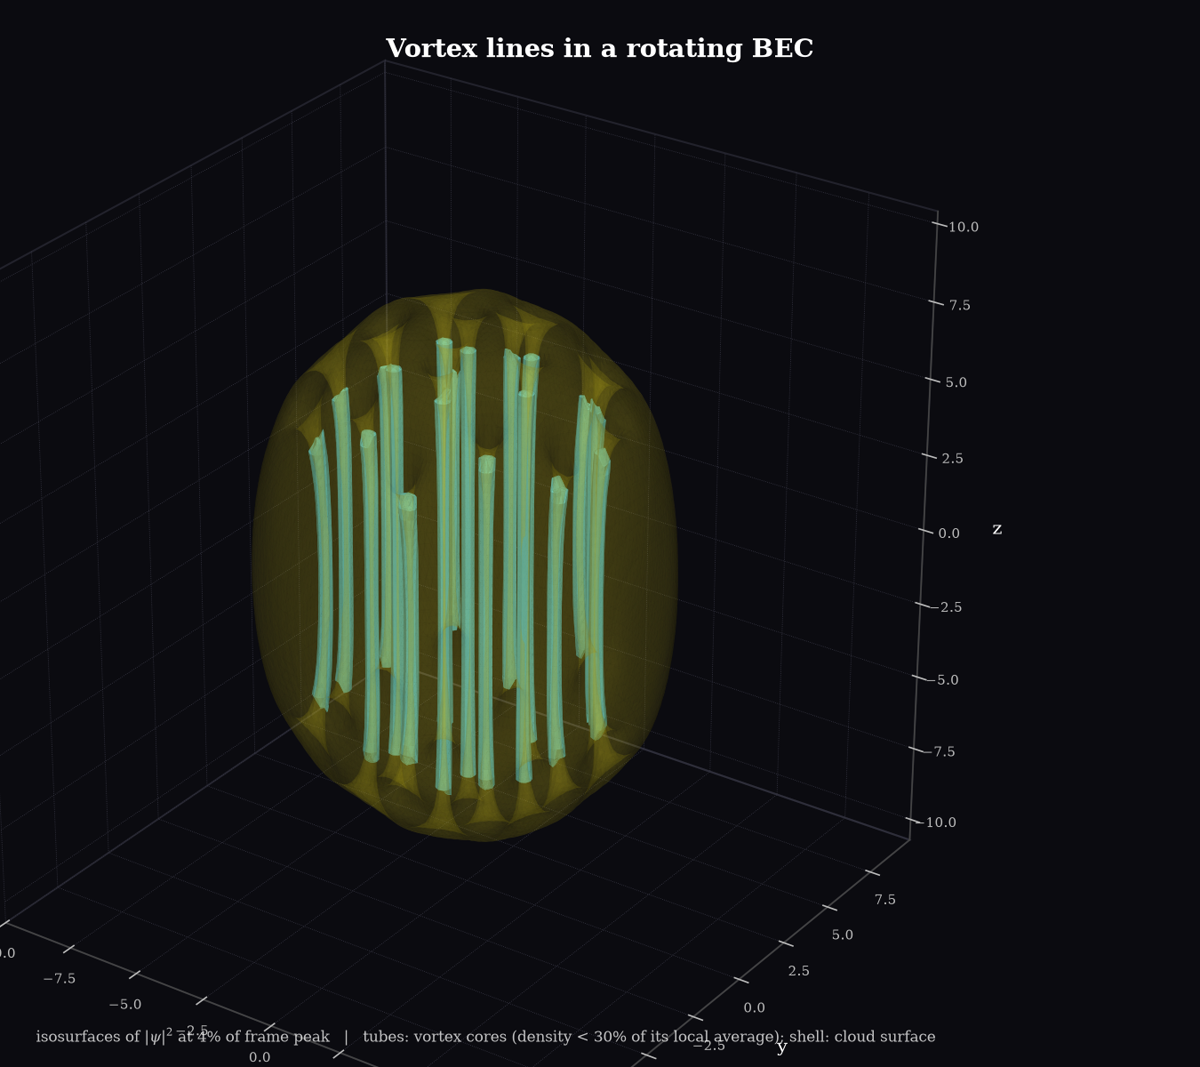
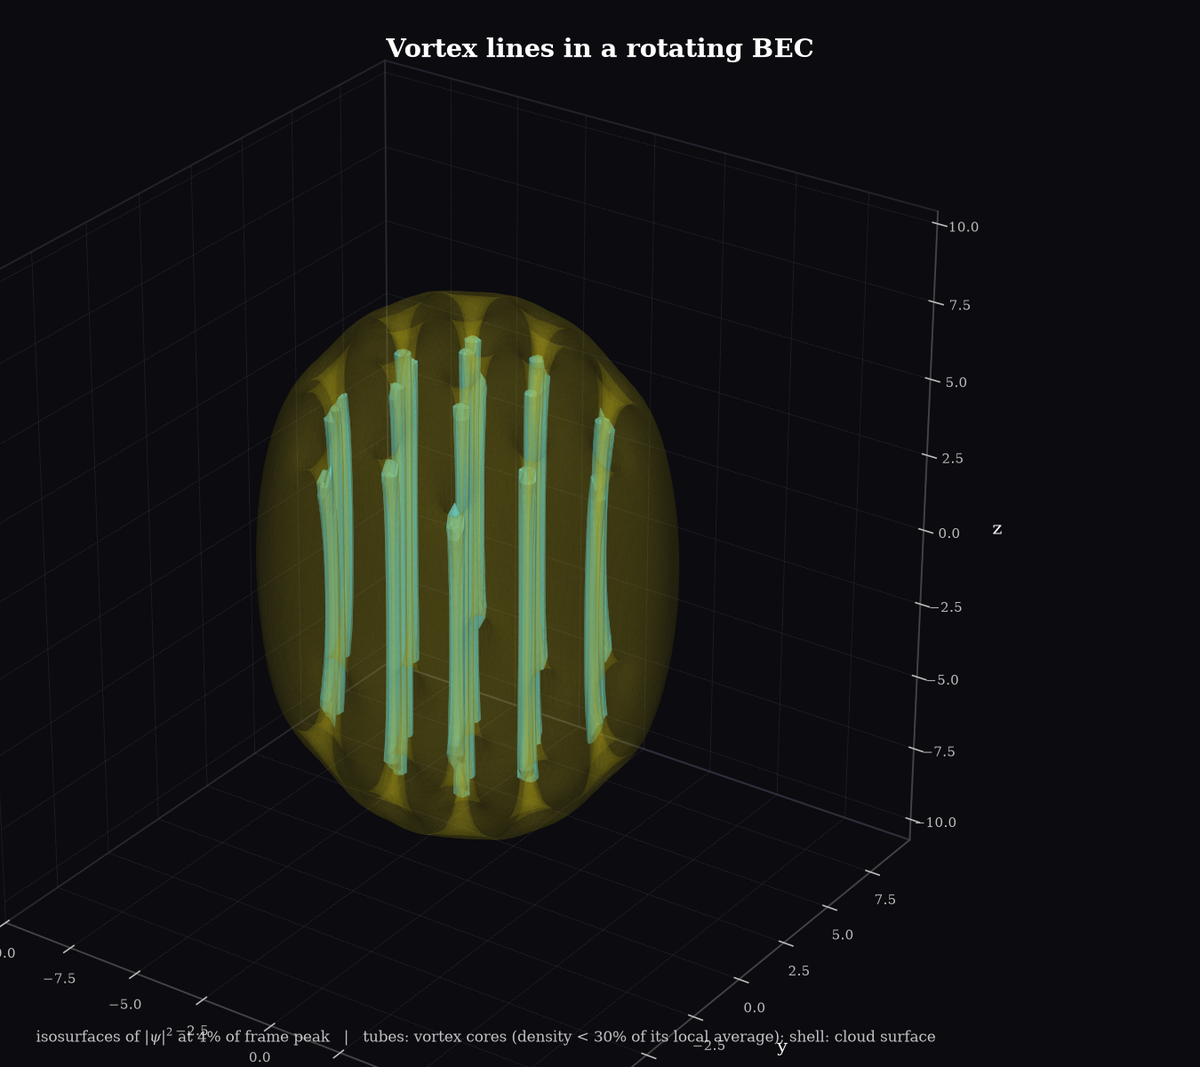
feat: converged 3D vortex lattice in example 11

Changed region(s): [[0.2467, 0.2784, 0.5242, 0.8041]]

diff --git a/examples/11_rotating_bec_vortex_lattice.py b/examples/11_rotating_bec_vortex_lattice.py
@@ -9,15 +9,21 @@ PRA 65, 023603, 2002). The cloud elongates, its surface becomes unstable,
 vortices enter from the edge and crystallise into a triangular lattice.
 
 Part 2 — vortex lines (3D). The 2D lattice seeds a 3D condensate in a
-cigar-shaped rotating trap. Imaginary-time relaxation in the rotating frame
-(a fixed number of steps; its residual is printed) gives a state whose vortex
-lines run along z; they are drawn as tubes inside the translucent cloud.
+cigar-shaped rotating trap with the same radial anisotropy as in part 1.
+Vortex lattices have very soft modes (relaxation rates ~0.01 ω): imaginary
+time stalls on them and its fixed point also carries an O(dτ²) error. So a
+short imaginary-time run only smooths the seed, and the stationary state is
+then found by preconditioned conjugate-gradient energy minimisation
+(``ground_state_pcg``), whose fixed point is exact. The residual
+‖(H − ΩL_z)ψ − μψ‖ is printed; the vortex lines run along z and are drawn as
+tubes inside the translucent cloud. This part takes ~30–40 minutes on a CPU.
 
 Check: a rigidly rotating superfluid has the areal vortex density
 n_v = mΩ/(πℏ) (Feynman's rule), i.e. a triangular lattice with spacing
 a = (2/(√3 n_v))^½. The rule is exact for an infinite uniform lattice; this
 lattice has fewer than 20 vortices in an inhomogeneous cloud, so deviations
-of a few percent are expected. The measured spacing is printed.
+of a few percent are expected. The measured spacing is printed, and each
+line is followed slice by slice along z to measure how straight it is.
 
 Outputs (in output/):
     11_vortex_lattice_formation.mp4   density and phase during formation (2D)
@@ -36,7 +42,7 @@ from scipy.spatial import cKDTree
 from quantumlab.core.grid import Grid2D, Grid3D
 from quantumlab.core.wavefunction import WaveFunction2D, WaveFunction3D
 from quantumlab.potentials import HarmonicTrap
-from quantumlab.stationary import ground_state
+from quantumlab.stationary import ground_state, ground_state_pcg
 from quantumlab.solvers.split_operator import SplitOperatorSolver
 from quantumlab.observables import angular_momentum_z_expectation, vortex_positions
 from quantumlab.visualization.volume_3d import IsosurfaceAnimation, IsosurfaceRenderer
@@ -148,20 +154,50 @@ def main():
     grid3 = Grid3D(128, -10.0, 10.0, 128, -10.0, 10.0, 64, -(Z + 3.0), Z + 3.0)
     trap3 = HarmonicTrap((np.sqrt(1.0 + eps_x), np.sqrt(1.0 + eps_y), omega_z))
     profile_z = np.sqrt(np.clip(1.0 - grid3.z ** 2 / Z ** 2, 0.0, None))
-    guess = wf.psi[:, :, None] * profile_z[None, None, :]
-    print(f'\n[2] 3D: cigar trap ω = (1.015, 1.044, {omega_z}), g = {g3:.0f}, '
-          f'grid {grid3.N_x}×{grid3.N_y}×{grid3.N_z}; imaginary time in the rotating frame')
-    wf3, info3 = ground_state(grid3, trap3, dtau=0.005, nonlinearity=g3, rotation=Om, initial=guess,
-                              tol=1e-9, max_steps=3000, check_interval=50)
-    print(f'    steps = {info3.steps}, energy converged to 1e-9 = {info3.converged}, '
-          f'μ = {info3.chemical_potential:.4f}, residual ‖(H−ΩL_z)ψ − μψ‖ = {info3.residual:.1e}')
+    wf3 = WaveFunction3D(grid3, wf.psi[:, :, None] * profile_z[None, None, :])
+    wf3.normalize()
+    print(f'\n[2] 3D: cigar trap ω = (1.015, 1.044, {omega_z}), g = {g3:.0f}, grid {grid3.N_x}×{grid3.N_y}×{grid3.N_z}; '
+          f'stationary state in the rotating frame')
+    # A short imaginary-time run smooths the extruded 2D seed; the energy minimiser does the rest
+    wf3, info_it = ground_state(grid3, trap3, dtau=0.02, nonlinearity=g3, rotation=Om, initial=wf3,
+                                tol=0.0, max_steps=1000, check_interval=500)
+    print(f'    imaginary time (dτ = 0.02, {info_it.steps} steps): residual {info_it.residual:.2e}')
 
+    def progress(it, residual, energy):
+        print(f'    conjugate gradient {it:5d}: residual {residual:.2e}, E = {energy:.10f}', flush=True)
+
+    wf3, info3 = ground_state_pcg(grid3, trap3, initial=wf3, nonlinearity=g3, rotation=Om, tol=1e-6,
+                                  max_iter=15000, callback=progress, callback_interval=500)
+    print(f'    converged = {info3.converged} after {info3.steps} iterations: E = {info3.energy:.10f}, '
+          f'μ = {info3.chemical_potential:.10f}, residual ‖(H−ΩL_z)ψ − μψ‖ = {info3.residual:.2e}')
     k0 = int(np.argmin(np.abs(grid3.z)))
     mid = WaveFunction2D(Grid2D(grid3.N_x, -10.0, 10.0, grid3.N_y, -10.0, 10.0), wf3.psi[:, :, k0])
     pos3, q3 = vortex_positions(mid)
     a3, a3_std = lattice_spacing(pos3)
     print(f'    vortex lines crossing z = 0: {len(pos3)};  spacing {a3:.3f} ± {a3_std:.3f} '
           f'(Feynman {a_feynman:.3f}, {100 * (a3 / a_feynman - 1):+.1f}%)')
+    # Straightness: follow each line slice by slice from z = 0 out to |z| = 0.6 Z. A line is
+    # lost where no vortex lies within half a lattice spacing of its last position, i.e. it
+    # has left the region where vortices are detected (density above 20% of the slice maximum).
+    shift, followed, outward = np.zeros(len(pos3)), np.ones(len(pos3), dtype=bool), np.ones(len(pos3), dtype=bool)
+    for step in (1, -1):
+        current, alive, k = pos3.copy(), np.ones(len(pos3), dtype=bool), k0
+        while abs(grid3.z[k + step]) <= 0.6 * Z:
+            k += step
+            p, _ = vortex_positions(WaveFunction2D(mid.grid, wf3.psi[:, :, k]))
+            d, j = cKDTree(p).query(current)
+            alive &= d < 0.5 * a3
+            current[alive] = p[j[alive]]
+            shift[alive] = np.maximum(shift[alive], np.hypot(*(current[alive] - pos3[alive]).T))
+        followed &= alive
+        outward &= np.sum((current - pos3) * pos3, axis=1) >= 0.0      # moved away from the axis
+    radius = np.hypot(pos3[:, 0], pos3[:, 1])
+    inner = radius < 0.7 * radius.max()
+    print(f'    {followed.sum()} of {len(pos3)} lines followed through every slice with |z| ≤ 0.6 Z; largest '
+          f'lateral shift from the z = 0 position: inner lines {shift[inner].max():.2f}, outer ring '
+          f'{shift[~inner].max():.2f}{" (outwards)" if outward.all() else ""} (grid spacing {grid3.dx:.3f})')
+    if not followed.all():
+        print(f'    {(~followed).sum()} outermost line(s) leave the dense part of the cloud before |z| = 0.6 Z')
 
     rho = wf3.probability_density
     envelope = gaussian_filter(rho, sigma=(1.0 / grid3.dx, 1.0 / grid3.dy, 0.0))
